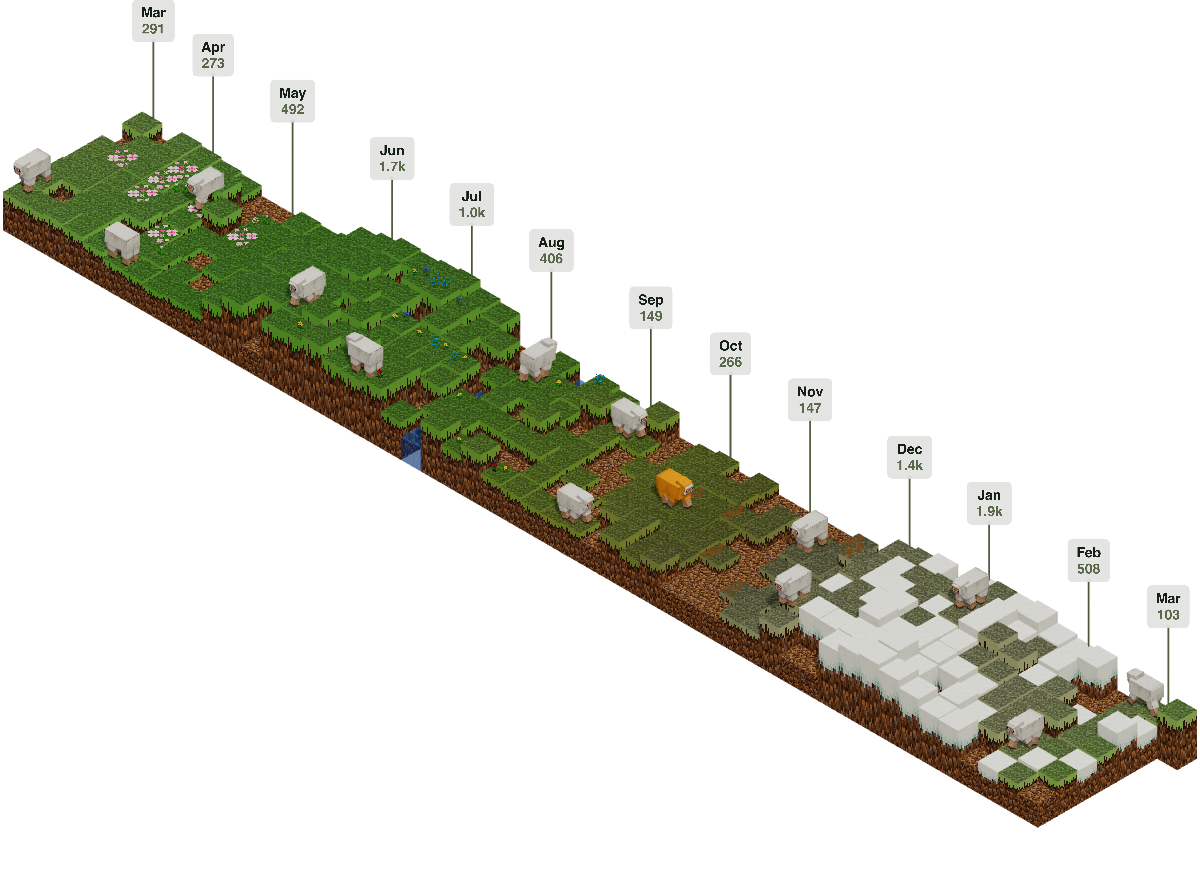
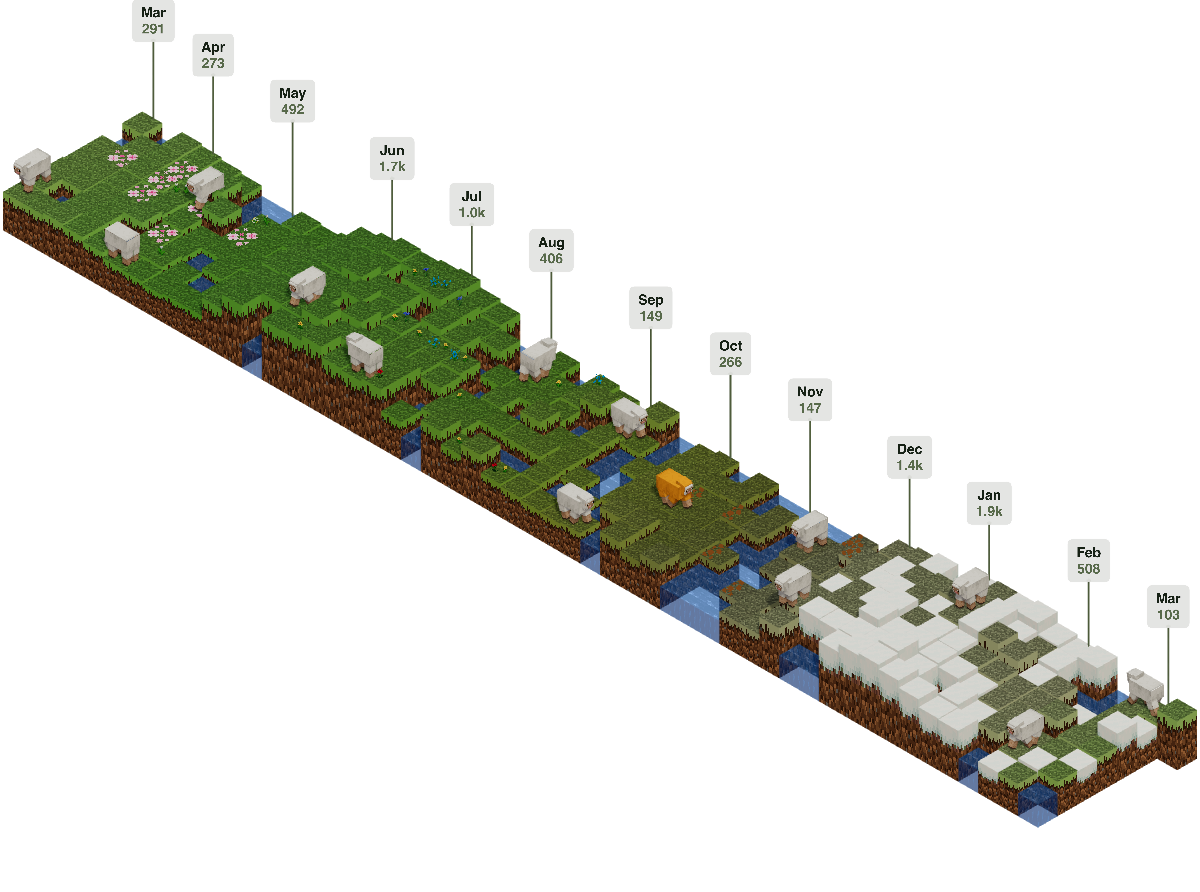
Render water blocks with official textures

diff --git a/src/scene/build-scene-page.ts b/src/scene/build-scene-page.ts
@@ -977,88 +977,42 @@ ${createHudMarkup(userSnapshot, period, calendarMetrics.length, config)}
       }),
     ];
 
-    function countGrassNeighbors(cell) {
+    const selectedWaterKeys = new Set(
+      sceneData.calendarMetrics
+        .filter((cell) => cell.contributionLevel === 0)
+        .map((cell) => cell.week + ":" + cell.dayOfWeek),
+    );
+    const baseWaterGeometry = new THREE.BoxGeometry(1, 1, 1);
+    const waterGeometryCache = new Map();
+
+    function getWaterGeometryKey(cell) {
       return [
-        [1, 0],
-        [-1, 0],
-        [0, 1],
-        [0, -1],
-      ].reduce((count, [weekOffset, dayOffset]) => {
-        const neighbor = calendarCellMap.get(
-          (cell.week + weekOffset) + ":" + (cell.dayOfWeek + dayOffset),
-        );
-        return neighbor && neighbor.contributionLevel > 0 ? count + 1 : count;
-      }, 0);
+        selectedWaterKeys.has(cell.week + 1 + ":" + cell.dayOfWeek) ? "0" : "1",
+        selectedWaterKeys.has(cell.week - 1 + ":" + cell.dayOfWeek) ? "0" : "1",
+        "1",
+        "1",
+        selectedWaterKeys.has(cell.week + ":" + (cell.dayOfWeek + 1)) ? "0" : "1",
+        selectedWaterKeys.has(cell.week + ":" + (cell.dayOfWeek - 1)) ? "0" : "1",
+      ].join("");
     }
 
-    function countSelectedWaterNeighbors(cell, selectedWaterKeys) {
-      return [
-        [1, 0],
-        [-1, 0],
-        [0, 1],
-        [0, -1],
-      ].reduce((count, [weekOffset, dayOffset]) => {
-        return selectedWaterKeys.has(
-          (cell.week + weekOffset) + ":" + (cell.dayOfWeek + dayOffset),
-        )
-          ? count + 1
-          : count;
-      }, 0);
+    function getWaterBlockGeometry(cell) {
+      const key = getWaterGeometryKey(cell);
+      if (waterGeometryCache.has(key)) {
+        return waterGeometryCache.get(key);
+      }
+
+      const geometry = baseWaterGeometry.clone();
+      const visibleFaces = key.split("").map((value) => value === "1");
+      geometry.clearGroups();
+      baseWaterGeometry.groups.forEach((group, faceIndex) => {
+        if (visibleFaces[faceIndex]) {
+          geometry.addGroup(group.start, group.count, group.materialIndex);
+        }
+      });
+      waterGeometryCache.set(key, geometry);
+      return geometry;
     }
-
-    const summerWaterCells = sceneData.calendarMetrics.filter((cell) => {
-      if (cell.contributionLevel > 0) {
-        return false;
-      }
-      if (getSnowCoverage(cell.date) > 0) {
-        return false;
-      }
-      if (getSummerWaterCoverage(cell.date) <= 0) {
-        return false;
-      }
-      return countGrassNeighbors(cell) > 0;
-    });
-    const selectedWaterKeys = new Set();
-
-    summerWaterCells.forEach((cell) => {
-      const grassNeighborCount = countGrassNeighbors(cell);
-      if (grassNeighborCount < 2) {
-        return;
-      }
-
-      const seedChance =
-        getSummerWaterCoverage(cell.date) *
-        Math.min(1, 0.7 + grassNeighborCount * 0.18);
-      const seedRoll = hashString(
-        cell.date + ":water:seed:" + cell.week + ":" + cell.dayOfWeek,
-      );
-      if (seedRoll < seedChance) {
-        selectedWaterKeys.add(cell.week + ":" + cell.dayOfWeek);
-      }
-    });
-
-    summerWaterCells.forEach((cell) => {
-      const cellKey = cell.week + ":" + cell.dayOfWeek;
-      if (selectedWaterKeys.has(cellKey)) {
-        return;
-      }
-
-      const grassNeighborCount = countGrassNeighbors(cell);
-      const waterNeighborCount = countSelectedWaterNeighbors(cell, selectedWaterKeys);
-      if (waterNeighborCount <= 0 || grassNeighborCount <= 0) {
-        return;
-      }
-
-      const expansionChance =
-        getSummerWaterCoverage(cell.date) *
-        Math.min(1, 0.32 + waterNeighborCount * 0.34 + grassNeighborCount * 0.12);
-      const expansionRoll = hashString(
-        cell.date + ":water:expand:" + cell.week + ":" + cell.dayOfWeek,
-      );
-      if (expansionRoll < expansionChance) {
-        selectedWaterKeys.add(cellKey);
-      }
-    });
 
     const blockMaterialCache = new Map();
     function getBlockMaterials(cell) {
@@ -1140,7 +1094,9 @@ ${createHudMarkup(userSnapshot, period, calendarMetrics.length, config)}
       const isWaterCell = selectedWaterKeys.has(cell.week + ":" + cell.dayOfWeek);
 
       const block = new THREE.Mesh(
-        new THREE.BoxGeometry(1, cell.worldHeight, 1),
+        isWaterCell
+          ? getWaterBlockGeometry(cell)
+          : new THREE.BoxGeometry(1, cell.worldHeight, 1),
         getBlockMaterials(cell)
       );
       block.position.set(cell.week, cell.worldHeight * 0.5, cell.dayOfWeek);

diff --git a/profile/profile-minecraft.html b/profile/profile-minecraft.html
@@ -810,88 +810,42 @@
       }),
     ];
 
-    function countGrassNeighbors(cell) {
+    const selectedWaterKeys = new Set(
+      sceneData.calendarMetrics
+        .filter((cell) => cell.contributionLevel === 0)
+        .map((cell) => cell.week + ":" + cell.dayOfWeek),
+    );
+    const baseWaterGeometry = new THREE.BoxGeometry(1, 1, 1);
+    const waterGeometryCache = new Map();
+
+    function getWaterGeometryKey(cell) {
       return [
-        [1, 0],
-        [-1, 0],
-        [0, 1],
-        [0, -1],
-      ].reduce((count, [weekOffset, dayOffset]) => {
-        const neighbor = calendarCellMap.get(
-          (cell.week + weekOffset) + ":" + (cell.dayOfWeek + dayOffset),
-        );
-        return neighbor && neighbor.contributionLevel > 0 ? count + 1 : count;
-      }, 0);
+        selectedWaterKeys.has(cell.week + 1 + ":" + cell.dayOfWeek) ? "0" : "1",
+        selectedWaterKeys.has(cell.week - 1 + ":" + cell.dayOfWeek) ? "0" : "1",
+        "1",
+        "1",
+        selectedWaterKeys.has(cell.week + ":" + (cell.dayOfWeek + 1)) ? "0" : "1",
+        selectedWaterKeys.has(cell.week + ":" + (cell.dayOfWeek - 1)) ? "0" : "1",
+      ].join("");
     }
 
-    function countSelectedWaterNeighbors(cell, selectedWaterKeys) {
-      return [
-        [1, 0],
-        [-1, 0],
-        [0, 1],
-        [0, -1],
-      ].reduce((count, [weekOffset, dayOffset]) => {
-        return selectedWaterKeys.has(
-          (cell.week + weekOffset) + ":" + (cell.dayOfWeek + dayOffset),
-        )
-          ? count + 1
-          : count;
-      }, 0);
+    function getWaterBlockGeometry(cell) {
+      const key = getWaterGeometryKey(cell);
+      if (waterGeometryCache.has(key)) {
+        return waterGeometryCache.get(key);
+      }
+
+      const geometry = baseWaterGeometry.clone();
+      const visibleFaces = key.split("").map((value) => value === "1");
+      geometry.clearGroups();
+      baseWaterGeometry.groups.forEach((group, faceIndex) => {
+        if (visibleFaces[faceIndex]) {
+          geometry.addGroup(group.start, group.count, group.materialIndex);
+        }
+      });
+      waterGeometryCache.set(key, geometry);
+      return geometry;
     }
-
-    const summerWaterCells = sceneData.calendarMetrics.filter((cell) => {
-      if (cell.contributionLevel > 0) {
-        return false;
-      }
-      if (getSnowCoverage(cell.date) > 0) {
-        return false;
-      }
-      if (getSummerWaterCoverage(cell.date) <= 0) {
-        return false;
-      }
-      return countGrassNeighbors(cell) > 0;
-    });
-    const selectedWaterKeys = new Set();
-
-    summerWaterCells.forEach((cell) => {
-      const grassNeighborCount = countGrassNeighbors(cell);
-      if (grassNeighborCount < 2) {
-        return;
-      }
-
-      const seedChance =
-        getSummerWaterCoverage(cell.date) *
-        Math.min(1, 0.7 + grassNeighborCount * 0.18);
-      const seedRoll = hashString(
-        cell.date + ":water:seed:" + cell.week + ":" + cell.dayOfWeek,
-      );
-      if (seedRoll < seedChance) {
-        selectedWaterKeys.add(cell.week + ":" + cell.dayOfWeek);
-      }
-    });
-
-    summerWaterCells.forEach((cell) => {
-      const cellKey = cell.week + ":" + cell.dayOfWeek;
-      if (selectedWaterKeys.has(cellKey)) {
-        return;
-      }
-
-      const grassNeighborCount = countGrassNeighbors(cell);
-      const waterNeighborCount = countSelectedWaterNeighbors(cell, selectedWaterKeys);
-      if (waterNeighborCount <= 0 || grassNeighborCount <= 0) {
-        return;
-      }
-
-      const expansionChance =
-        getSummerWaterCoverage(cell.date) *
-        Math.min(1, 0.32 + waterNeighborCount * 0.34 + grassNeighborCount * 0.12);
-      const expansionRoll = hashString(
-        cell.date + ":water:expand:" + cell.week + ":" + cell.dayOfWeek,
-      );
-      if (expansionRoll < expansionChance) {
-        selectedWaterKeys.add(cellKey);
-      }
-    });
 
     const blockMaterialCache = new Map();
     function getBlockMaterials(cell) {
@@ -973,7 +927,9 @@
       const isWaterCell = selectedWaterKeys.has(cell.week + ":" + cell.dayOfWeek);
 
       const block = new THREE.Mesh(
-        new THREE.BoxGeometry(1, cell.worldHeight, 1),
+        isWaterCell
+          ? getWaterBlockGeometry(cell)
+          : new THREE.BoxGeometry(1, cell.worldHeight, 1),
         getBlockMaterials(cell)
       );
       block.position.set(cell.week, cell.worldHeight * 0.5, cell.dayOfWeek);
